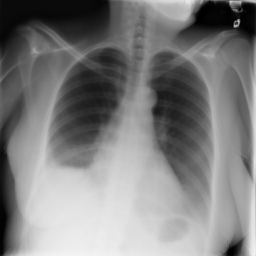
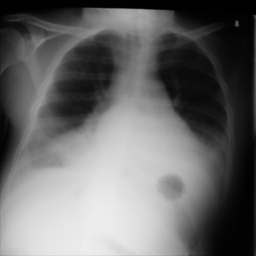
Use visually evident pleural effusion pair

diff --git a/classification_experiments/050_export_pathology_pairs.py b/classification_experiments/050_export_pathology_pairs.py
@@ -17,6 +17,9 @@ LABELS = [
     "Pleural Effusion", "Pleural Other", "Pneumonia", "Pneumothorax",
     "Support Devices",
 ]
+# The highest aggregate score for effusion was visually subtle; this candidate
+# has a clearly visible pleural fluid meniscus in the paired real radiograph.
+VISUAL_OVERRIDES = {"Pleural Effusion": "3296"}
 
 
 def read_gz_csv(path):
@@ -40,7 +43,10 @@ def main():
                       and scores["1"][k].get("dual_consistency") and scores["10"][k].get("dual_consistency")]
         if not candidates:
             raise RuntimeError(f"No selected positive sample for {label}")
-        row = max(candidates, key=lambda r: sum(float(scores[e][r["pool_index"]]["dual_consistency"]) for e in ("1", "10")) / 2)
+        if label in VISUAL_OVERRIDES:
+            row = manifest[VISUAL_OVERRIDES[label]]
+        else:
+            row = max(candidates, key=lambda r: sum(float(scores[e][r["pool_index"]]["dual_consistency"]) for e in ("1", "10")) / 2)
         score = {e: scores[e][row["pool_index"]] for e in ("1", "10")}
         real = Path(row["real_image_path"])
         if not real.exists():
